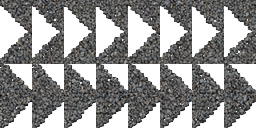
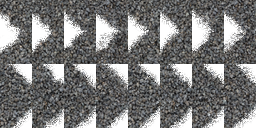
Added more variations to the edge gfx for the gravel tiles - Fixes #16

diff --git a/CHANGELOG.md b/CHANGELOG.md
@@ -6,9 +6,11 @@ The latest stable release is available at <https://github.com/jpanther/Dectorio/
 
 ### Added
 * Wooden and steel signs (unlocked via new _Signs_ technology)
+* Added more variations to the edge gfx for the gravel tiles
 
 ### Bugfixes
 * Base Hazard Concrete is now correctly made available for crafting on saves if Dectorio is later removed
+* Blueprints that contain Hazard Concrete tiles will now import correctly
 
 ## v0.5.14 - 2017-07-18
 
